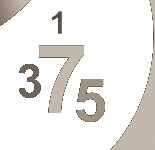
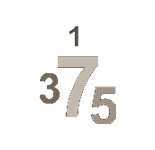
Numerologia: mniejsze/wyśrodkowane cyfry, wycięte stare, usunięta poświata
Trzecia (i najtrudniejsza) z serii poprawek "podmień/usuń poświatę" —
po astrologii i chiromancji. Cyfry "375"/"1" zmniejszone i wyśrodkowane
w polu wg proporcji z public/brand/numerologia.jpg (przysłany przez
użytkownika wzorzec układu).

Po drodze: icon-numerologia.png okazał się NIE być pixel-aligned ze
swoim odpowiednikiem w kolo-karmy.png (osobno wyeksportowany asset,
inna skala/pozycja — inaczej niż przy kompasie/dłoni) — maska wycięcia
zbudowana z jego kształtu dawała tylko częściowe usunięcie starych
cyfr ("duchy"). Naprawione przez zmierzenie bbox cyfr BEZPOŚREDNIO
z kolo-karmy.png i wycięcie prostą elipsą (ta sama sprawdzona metoda
co KOMPAS_DZIURA), zamiast niepewnej maski z kształtu.

Usunięta też stara poświata (glow-numerologia.png) na hover — ten sam
powód co przy astrologii/hiromancji, zbędna przy pulsie piktogramu.

diff --git a/components/KoloKarmy.tsx b/components/KoloKarmy.tsx
@@ -168,12 +168,11 @@ export default function KoloKarmy({ ukonczone = WSZYSTKIE_SYSTEMY }: { ukonczone
       ))}
       <MoonStars box={SEGMENT_GAPY.astrologia} zlote={ukonczone.has("astrologia")} puls={aktywny === "astrologia"} />
 
-      {/* poświata pól o nieregularnym kształcie — astrologia i hiromancja
-          pominięte: te maski to flood-fill WNĘTRZA starych piktogramów
-          (kompas/dłoń, już wyciętych z bazy), na przezroczystej dziurze
-          dawały widoczny „cień"; hover-feedback dla obu daje teraz puls
-          (MoonStars / icon-hiromancja przez PIKTOGRAMY_PULSUJACE) */}
-      {[...KSZTALTNE].filter((id) => id !== "astrologia" && id !== "hiromancja").map((id) => (
+      {/* poświata pól o nieregularnym kształcie — astrologia/hiromancja/
+          numerologia pominięte: hover-feedback dla wszystkich trzech daje
+          już puls piktogramu (MoonStars / PIKTOGRAMY_PULSUJACE), stara
+          poświata dawała niespójny, zbędny efekt w tle */}
+      {[...KSZTALTNE].filter((id) => !["astrologia", "hiromancja", "numerologia"].includes(id)).map((id) => (
         <img key={`glow-${id}`} src={`/brand/glow-${id}.png`} alt=""
           className={`kk-glow-ksztalt${aktywny === id ? " kk-glow-aktywny" : ""}`}
           style={{ left: 0, top: 0, width: "100%", height: "100%" }} />
